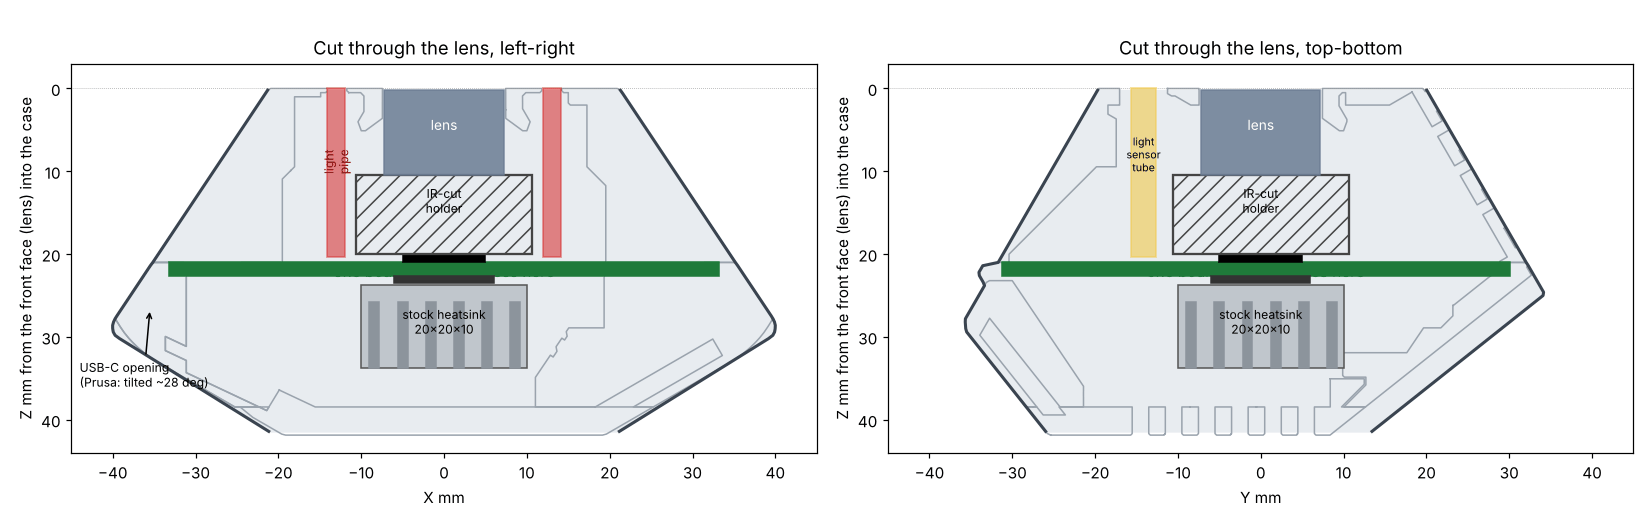
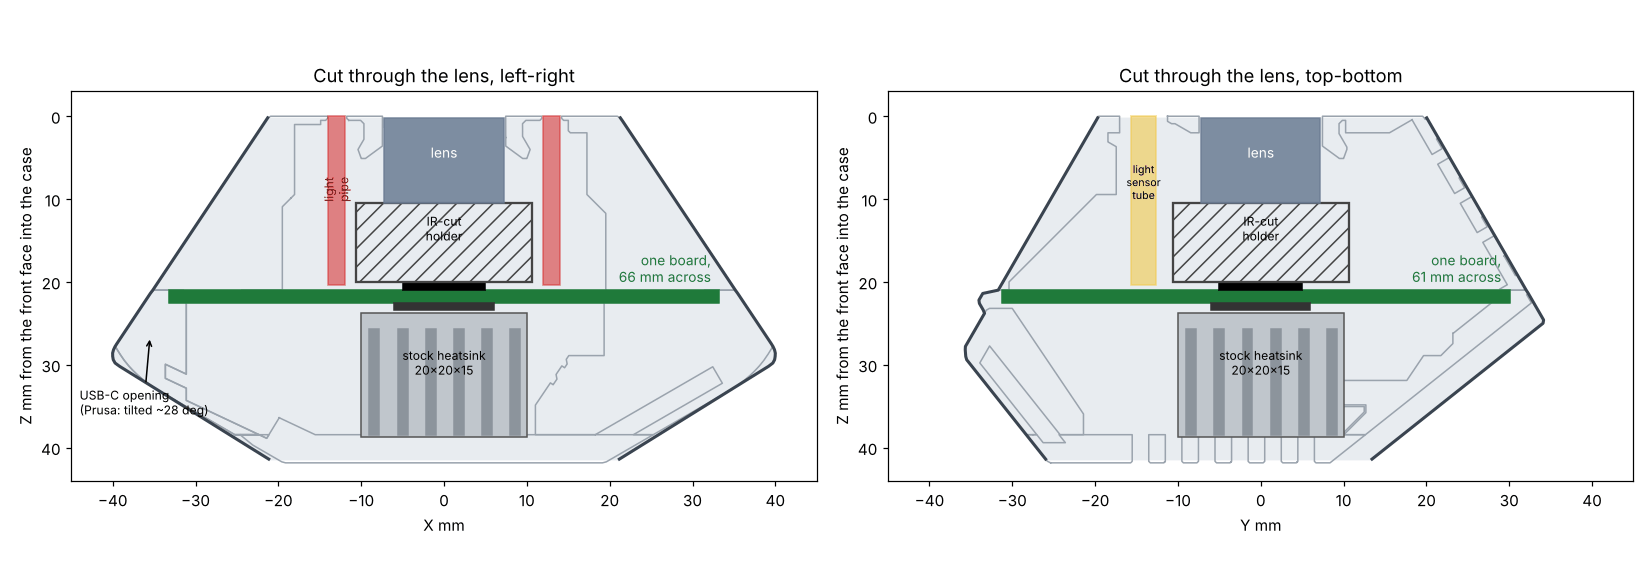
LayerCam Pro v1: review fixes to the plan
- The IR-cut holder's base covers four of the six LEDs under Prusa's
  holes (0.42 mm at any rotation): now an open risk with the ways out.
- The heatsink reaches the vents: 20 x 20 x 15 mm under a 1.6 mm lid,
  1.55 mm clear (a 10 mm one left 5 mm of trapped air).
- src/plan_section.py draws the section from Prusa's case files and
  checks both fits in numbers.
- The parts check's link to LayerCam v1's parts list resolves.
- The antenna lead is named as the one cable inside the case.

Claude-Session: https://claude.ai/code/session_01SRhEBojLChjJZAxgunyC3D

diff --git a/layercam-pro/v1/src/plan_section.py b/layercam-pro/v1/src/plan_section.py
@@ -1,0 +1,180 @@
+# -*- coding: utf-8 -*-
+"""LayerCam Pro v1: the plan drawn in Prusa's case, and its two fit checks.
+
+Draws images/plan-section.png (two cuts through the lens) from Prusa's
+printed case for the Buddy3D camera, and checks in numbers what the drawing
+shows:
+
+  1. the six IR LEDs (straight light pipes, so each LED right under its
+     front hole) against the IR-cut holder's base on the same face;
+  2. the heatsink's top against the new lid's inner face under the vents.
+
+The case files are Prusa's (Printables model 1343977, GPL v2):
+buddy-camera-bottom-r2.stl, buddy-camera-top-r1.stl, buddy-camera-lid-r1.stl.
+They are downloaded, not committed. Put them in one folder and run:
+
+    python3 src/plan_section.py <folder with the three STLs>
+
+Needs numpy, trimesh, shapely, matplotlib, Pillow (a venv in out/ is fine).
+Exits 1 if a check fails; the plan's README lists both as open risks until
+the board's own design checks replace this script.
+
+The frame is LayerCam's "lens frame" (../../../layercam/v1/src/geometry.py):
+origin on the lens axis at the case's outer front face, +Z into the case.
+"""
+import math
+import os
+import sys
+
+import numpy as np
+import trimesh
+from shapely.ops import unary_union
+
+# ------------------------------------------------------------ the plan's numbers
+BOARD_Z0, BOARD_T = 21.0, 1.6          # board front face, thickness (docs/decisions.md)
+WALL = 2.5                             # new case wall at the board
+LED_R, LED_ANGLES = 13.0, (0, 60, 120, 180, 240, 300)   # Prusa's holes (LayerCam geometry.py)
+LED_SIZE = 3.75                        # OSRAM SFH 4715CS body, square
+PIPE_D = 2.01                          # Bivar LPV2-0750
+HOLDER_BOX = (-10.6, -9.8, 10.6, 9.8)  # Commonlands CLA219 base with its ears (full rectangle)
+CHIP_H, TAPE_H = 0.85, 0.25            # RV1106 package, 3M 8810 tape
+SINK = (20.0, 20.0, 15.0)              # stock heatsink, mm
+LID_T = 1.6                            # new lid's thickness under the vents
+MIN_GAP = 0.5                          # clearance each check asks for
+
+
+def load_case(folder):
+    """Prusa's three parts, assembled in the lens frame (measured 26 Oct 2026)."""
+    def part(name):
+        return trimesh.load(os.path.join(folder, 'buddy-camera-%s.stl' % name))
+    bottom, top, lid = part('bottom-r2'), part('top-r1'), part('lid-r1')
+    flip = np.eye(4)
+    flip[:3, :3] = np.diag([1, -1, -1])
+    flip[:3, 3] = [-4.21, 3.39, 45.68]
+    top.apply_transform(flip)
+    lid.apply_transform(flip)
+    shift = np.eye(4)
+    shift[:3, 3] = [-1.28, -0.74, -2.0]
+    for m in (bottom, top, lid):
+        m.apply_transform(shift)
+    return trimesh.util.concatenate([bottom, top, lid]), lid
+
+
+def hull_at(case, z):
+    s = case.section(plane_origin=[0, 0, z], plane_normal=[0, 0, 1])
+    return unary_union(s.to_2D(to_2D=np.eye(4))[0].polygons_full).convex_hull
+
+
+def led_gaps():
+    """Clearance from each LED body to the holder's base (negative = overlap)."""
+    x0, y0, x1, y1 = HOLDER_BOX
+    out = []
+    for a in LED_ANGLES:
+        x, y = LED_R * math.cos(math.radians(a)), LED_R * math.sin(math.radians(a))
+        h = LED_SIZE / 2
+        # boxes apart along either axis -> the larger separation; else overlap depth
+        gx = max(x0 - (x + h), (x - h) - x1)
+        gy = max(y0 - (y + h), (y - h) - y1)
+        out.append((a, x, y, max(gx, gy)))
+    return out
+
+
+def lid_inner_z(lid):
+    """Prusa's lid: top face and inner face over the heatsink (lens axis)."""
+    loc, _, _ = lid.ray.intersects_location([[0, 0, 24.0]], [[0, 0, 1.0]], multiple_hits=True)
+    zs = sorted(loc[:, 2])
+    return zs[0], zs[-1]
+
+
+def draw(case, path):
+    import matplotlib
+    matplotlib.use('Agg')
+    import matplotlib.pyplot as plt
+    from matplotlib.patches import Rectangle
+    from PIL import Image
+
+    bz1 = BOARD_Z0 + BOARD_T
+    sink_z0 = bz1 + CHIP_H + TAPE_H
+    fig, axes = plt.subplots(1, 2, figsize=(15, 5.2))
+    for k, (normal, axis, label) in enumerate((([0, 1, 0], 0, 'X'), ([1, 0, 0], 1, 'Y'))):
+        ax = axes[k]
+        for e in case.section(plane_origin=[0, 0, 0], plane_normal=normal).discrete:
+            ax.plot(e[:, axis], e[:, 2], color='#9aa3ad', lw=1)
+        zs = np.arange(0.2, 41.6, 0.4)
+        lo, hi = [], []
+        for z in zs:
+            b = hull_at(case, z).bounds
+            lo.append(b[axis])
+            hi.append(b[axis + 2])
+        ax.fill_betweenx(zs, lo, hi, color='#e8ecf0', zorder=0)
+        ax.plot(lo, zs, color='#3a4450', lw=2)
+        ax.plot(hi, zs, color='#3a4450', lw=2)
+        b = hull_at(case, BOARD_Z0 + 0.8).bounds
+        w0, w1 = b[axis] + WALL, b[axis + 2] - WALL
+        ax.add_patch(Rectangle((w0, BOARD_Z0), w1 - w0, BOARD_T, color='#1f7a3a', zorder=5))
+        ax.text(w1 - 1, BOARD_Z0 - 0.6, 'one board,\n%.0f mm across' % (w1 - w0),
+                ha='right', va='bottom', color='#1f7a3a', fontsize=9, zorder=6)
+        ax.add_patch(Rectangle((-5, BOARD_Z0 - 1.0), 10, 1.0, color='k', zorder=6))       # sensor
+        hz0 = BOARD_Z0 - 1.0 - 9.5
+        ax.add_patch(Rectangle((HOLDER_BOX[0], hz0), HOLDER_BOX[2] - HOLDER_BOX[0], 9.5,
+                               fill=False, ec='#444', lw=1.5, zorder=6, hatch='//'))
+        ax.add_patch(Rectangle((-7.2, 0.2), 14.4, hz0 - 0.2, color='#6b7c93', alpha=.85, zorder=6))
+        ax.text(0, 5, 'lens', ha='center', color='w', fontsize=9, zorder=7)
+        ax.text(0, 15, 'IR-cut\nholder', ha='center', fontsize=8, zorder=7)
+        if k == 0:
+            for x in (-LED_R, LED_R):
+                ax.add_patch(Rectangle((x - PIPE_D / 2, 0.0), PIPE_D, BOARD_Z0 - 0.6,
+                                       color='#d62728', alpha=.55, zorder=6))
+            ax.text(-LED_R, 10, 'light\npipe', ha='center', fontsize=8, color='#8b0000', zorder=7, rotation=90)
+        else:
+            ax.add_patch(Rectangle((-14.15 - 1.5, 0.0), 3.0, BOARD_Z0 - 0.6, color='#f2c94c', alpha=.6, zorder=6))
+            ax.text(-14.15, 10, 'light\nsensor\ntube', ha='center', fontsize=7, zorder=7)
+        ax.add_patch(Rectangle((-6, bz1), 12, CHIP_H, color='#333', zorder=6))
+        ax.add_patch(Rectangle((-SINK[0] / 2, sink_z0), SINK[0], SINK[2], color='#c0c6cc', ec='#555', zorder=6))
+        for i in range(6):
+            ax.add_patch(Rectangle((-SINK[0] / 2 + 1 + i * 3.4, sink_z0 + 2), 1.2, SINK[2] - 2.2,
+                                   color='#8c949c', zorder=7))
+        ax.text(0, sink_z0 + SINK[2] / 2, 'stock heatsink\n%gx%gx%g' % SINK, ha='center', fontsize=8, zorder=8)
+        ax.set_aspect('equal')
+        ax.set_xlim(-45, 45)
+        ax.set_ylim(44, -3)
+        ax.set_xlabel(label + ' mm')
+        ax.set_ylabel('Z mm from the front face into the case')
+        ax.set_title('Cut through the lens, ' + ('left-right' if k == 0 else 'top-bottom'))
+    axes[0].annotate('USB-C opening\n(Prusa: tilted ~28 deg)', xy=(-35.5, 26.6), xytext=(-44, 36),
+                     fontsize=8, arrowprops=dict(arrowstyle='->'))
+    plt.tight_layout()
+    tmp = path + '.tmp.png'
+    plt.savefig(tmp, dpi=110)
+    Image.open(tmp).convert('RGB').quantize(256).save(path, optimize=True)
+    os.remove(tmp)
+
+
+def main():
+    if len(sys.argv) != 2:
+        sys.exit(__doc__)
+    case, lid = load_case(sys.argv[1])
+    ok = True
+
+    print('1. IR LEDs (%.2f mm square) against the IR-cut holder base:' % LED_SIZE)
+    for a, x, y, gap in led_gaps():
+        bad = gap < MIN_GAP
+        ok &= not bad
+        print('   %3d deg (%6.2f, %6.2f): gap %+.2f mm%s' % (a, x, y, gap, '  FAIL' if bad else ''))
+
+    inner, top = lid_inner_z(lid)
+    new_inner = top - LID_T
+    sink_top = BOARD_Z0 + BOARD_T + CHIP_H + TAPE_H + SINK[2]
+    gap = new_inner - sink_top
+    ok &= gap >= MIN_GAP
+    print('2. Heatsink top Z %.2f; Prusa lid inner %.2f, top %.2f; new %.1f mm lid inner %.2f: gap %+.2f mm%s'
+          % (sink_top, inner, top, LID_T, new_inner, gap, '' if gap >= MIN_GAP else '  FAIL'))
+
+    here = os.path.dirname(os.path.abspath(__file__))
+    draw(case, os.path.join(here, '..', 'images', 'plan-section.png'))
+    print('drew images/plan-section.png')
+    sys.exit(0 if ok else 1)
+
+
+if __name__ == '__main__':
+    main()

diff --git a/layercam-pro/v1/README.md b/layercam-pro/v1/README.md
@@ -17,14 +17,15 @@ stock, temperature) are in
 *Prusa's case outside, cut through the lens. One board (green) sits where
 the case is widest, about 66 mm across. The image sensor and the lens
 holder are on its front face. Light pipes carry the infrared light to
-Prusa's six front holes. A stock heatsink sits on the main chip, under the
-back vents; the new inside opens the vents onto its fins.*
+Prusa's six front holes. A stock 20 x 20 x 15 mm heatsink sits on the main
+chip and ends 1.5 mm under the back vents. Drawn, with the two fit checks,
+by `src/plan_section.py` from Prusa's case files.*
 
 ## What it has to do
 
 | Requirement | How it will be checked |
 |---|---|
-| **One circuit board.** Image sensor, infrared lights, light sensor, main chip, Wi-Fi, USB-C and every other part on it. No flat cables or wire cables inside the case | the BOM and the assembly drawing: one board, no cable |
+| **One circuit board.** Image sensor, infrared lights, light sensor, main chip, Wi-Fi, USB-C and every other part on it. No flat cables or board-to-board cables inside the case; the one lead is the antenna's, from the Wi-Fi module to the case wall | the BOM and the assembly drawing: one board, no board-to-board cable |
 | **One order at PCBWay:** one Gerber zip, one BOM and one placement file; PCBWay buys and fits every part | PCBWay's quote. The one known exception is the bare image sensor (see *Risks*) |
 | **Prusa's outside, our inside.** Same outer shape and magnets, so it fits the same top-left front corner of the CORE One. The USB-C socket stays on the same side wall, but the plug goes in level, not tilted about 28° as on Prusa's case | the case is built from Prusa's published files (Printables 1343977, GPL v2); a check script measures the board against the new case |
 | **A 70 °C chamber.** Every part inside its rating with the chamber at 70 °C, in snapshot and timelapse mode, cooled by a stock heatsink only (no fan) | a thermal model of the routed board at 70 °C (`sim/thermal.py`), then an oven test of a built camera |
@@ -46,10 +47,10 @@ back vents; the new inside opens the vents onto its fins.*
 | **Lens and day/night filter** | An M12 lens in an M12 holder with a built-in day/night (IR-cut) filter, screwed to the board over the sensor. The lens front sits just behind the case's front face |
 | **Wi-Fi** | Espressif **ESP32-C6-MINI-1U-H4**: Wi-Fi 6 at 2.4 GHz, **rated to 105 °C**, US approved (FCC), about $4.40. It talks to the main chip over SDIO with Espressif's Linux driver (`esp-hosted`). The main chip programs it, so there is no second programming step at the factory |
 | **Antenna** | A short U.FL to RP-SMA cable (bought in bulk) from the Wi-Fi module to a socket in the case wall. A 2.4 GHz screw-on antenna outside, no stronger than the gain the Wi-Fi module is approved with |
-| **Infrared lights** | Six 860 nm LEDs (OSRAM SFH 4715CS, rated to 125 °C) on the board's front face, with a light pipe on each. The pipes carry the light about 19 mm to Prusa's six front holes and keep its wide beam (Bivar LPV2-0750, PCB-mounted, fitted by PCBWay) |
+| **Infrared lights** | Six 860 nm LEDs (OSRAM SFH 4715CS, rated to 125 °C) on the board's front face, with a light pipe on each. The pipes carry the light about 19 mm to Prusa's six front holes and keep its wide beam (Bivar LPV2-0750, PCB-mounted, fitted by PCBWay). **Open:** four of the six LEDs clash with the IR-cut holder (see *Risks*) |
 | **Light sensor** | Behind Prusa's light window, looking through a printed tube |
 | **USB-C** | Power only (and firmware flashing), on the board's edge, out of the case's side wall, plug level with the board |
-| **Cooling** | A stock aluminium heatsink (about 20 x 20 x 10 mm, on 3M 8810 tape) on the main chip, reaching the back vents so it sits in the chamber's air, not air trapped in the case. Parts are spread over a board nearly twice the size of LayerCam's main board. The camera sleeps between pictures and drops to snapshots when hot, as LayerCam does |
+| **Cooling** | A stock aluminium heatsink, **20 x 20 x 15 mm** on 3M 8810 tape, on the main chip. Its top ends 1.5 mm under the back vents because the new lid is 1.6 mm thick there (Prusa's is 3.4 mm; a 10 mm heatsink would leave 5 mm of trapped air). So it sits in the chamber's air, not air trapped in the case. The size is sold (seen at Newegg); an Amazon listing is to be confirmed. Parts are spread over a board nearly twice the size of LayerCam's main board. The camera sleeps between pictures and drops to snapshots when hot, as LayerCam does |
 | **Case** | Printed by OffGrid in PC carbon fibre (Prusa's own recommendation for this case). Prusa's outside; a new inside: the board seat, the light-pipe guides, the light-sensor tube, the antenna socket, a level USB-C opening, vents over the heatsink. Built from Prusa's published files, which are GPL v2, so our case files are published under GPL v2 too |
 | **Magnets** | Round disc magnets from Amazon, high-temperature grade (SH, 150 °C), in printed pockets on the outside, set with heat-proof epoxy (J-B Weld) |
 | **Fab** | PCBWay: one board, one Gerber zip, BOM and placement file |
@@ -63,6 +64,7 @@ back vents; the new inside opens the vents onto its fins.*
 | **SC4336H software:** the SDK has the SC4336 driver and tuning, not the SC4336H | Compare the two datasheets; port the driver (usually a chip ID and register table). Early test on a cheap SC4336H camera board if one is sold |
 | **The image sensor is rated to 85 °C and gives its best picture up to 60 °C** | Put the sensor at the board's cool end, away from the main chip, behind a slot in the copper; the thermal model has to show it under 85 °C at a 70 °C chamber |
 | **Parts that stop at 85 °C:** the USB-C socket (no 105 °C USB 2.0 socket exists), the memory chip, the sensor | Place them at the cool edge; the thermal model checks each against its rating |
+| **Four LEDs clash with the IR-cut holder.** Straight pipes put each LED right under its hole, at R 13.0 every 60°. The CLA219's base (21.2 x 19.6 mm, a full rectangle with its screw ears) covers the 60°, 120°, 240° and 300° LEDs by 0.42 mm at any rotation. Only the 2 mm pipe itself clears (0.45 mm). LayerCam v1 never met this: its LEDs are on a ring near the front | Settle before layout, in this order: (1) an IR-cut holder whose base clears the four LEDs by 0.5 mm with their adapters (drawings of compact holders); (2) LEDs moved out to R 14.1 or more, with pipes tilted about 3° by printed guides, or flexible light guides rated for the heat; (3) moving Prusa's holes, which changes the outside and was rejected |
 | **The day/night filter holder has no published temperature rating** (the ones found are rated to 70 °C) | Ask Commonlands for the CLA219's rating; test in the oven |
 | **Light pipe temperature rating:** Bivar gives -40 to 125 °C for its polycarbonate pipes in general, not for this part | Confirm with Bivar; oven test |
 | **Carbon-fibre plastic conducts a little** | No bare copper at the board edge or near the case; the board is coated; the case touches only the grounded mounting holes |
@@ -75,7 +77,7 @@ back vents; the new inside opens the vents onto its fins.*
    board (both on Amazon).
 2. **Ask PCBWay** whether they can source the SC4336H, and get a rough
    quote for a 6-layer board of this size with assembly.
-3. **Ask Commonlands and Bivar** for the temperature ratings of the IR-cut
+3. **Settle the LED and IR-cut holder clash** (*Risks*), then **ask Commonlands and Bivar** for the temperature ratings of the IR-cut
    holder and the light pipes.
 4. **Design the board**, following [`docs/new-board.md`](../../docs/new-board.md):
    circuit in code, placement, routing, design checks, thermal model at 70 °C.
@@ -89,6 +91,7 @@ back vents; the new inside opens the vents onto its fins.*
 | [`docs/decisions.md`](docs/decisions.md) | every decision so far, and what it costs |
 | [`docs/parts-check-2026-10-31.md`](docs/parts-check-2026-10-31.md) | the main parts: in production, stock, price, temperature, with sources |
 | `images/plan-section.png` | the plan drawn in Prusa's case |
+| [`src/plan_section.py`](src/plan_section.py) | draws it from Prusa's case files (downloaded, not committed) and checks the LEDs against the IR-cut holder and the heatsink against the lid. It fails today on the LED clash, an open risk |
 
 The rest of the folder (`src/`, `production/`, `sim/`, `firmware/`,
 `enclosure/`, `TESTS.md`) comes with the design.

diff --git a/layercam-pro/v1/docs/decisions.md b/layercam-pro/v1/docs/decisions.md
@@ -105,7 +105,11 @@ streaming at a 50-60 °C chamber. The Pro is designed for 70 °C, past both.
 
 LayerCam's model showed that a heatsink inside a closed case only heats
 the air trapped in it. So the Pro's heatsink reaches the back vents and
-sits in the chamber's own air. The camera works in snapshots and the
+sits in the chamber's own air. Prusa's lid is 3.4 mm thick under its vents
+(inner face Z 38.45); a 20 x 20 x 10 mm heatsink on the chip would stop at
+Z 33.7, 5 mm short. The new lid is 1.6 mm thick there (inner face Z 40.25)
+and the heatsink is 20 x 20 x 15 mm, whose top is at Z 38.7: 1.55 mm under
+the vents (`src/plan_section.py` checks it). The camera works in snapshots and the
 timelapse at any chamber temperature up to 70 °C; live video only while
 it is cool.
 
@@ -122,6 +126,16 @@ PCB parts that PCBWay fits.
 
 Rejected: bigger front holes or one infrared window (changes the outside,
 and a window is a part to buy).
+
+**Not settled: four LEDs clash with the IR-cut holder.** A straight pipe
+puts its LED right under its hole, at R 13.0 every 60°. The CLA219's base
+is a full 21.2 x 19.6 mm rectangle (its drawing: the screw ears sit in the
+middle of two sides, the corners are solid). It covers the LEDs at 60°,
+120°, 240° and 300° by 0.42 mm at any rotation; only the bare 2 mm pipe
+clears it (0.45 mm). The way out is chosen before layout: a holder with a
+smaller base, LEDs moved out to R 14.1 or more with the pipes tilted about
+3° by printed guides (or flexible light guides rated for the heat), or, last,
+moving Prusa's holes.
 
 The OSRAM SFH 4715AS is not for new designs; its maker-recommended
 replacement, the SFH 4715CS (rated to 125 °C), is used.

diff --git a/layercam-pro/v1/docs/parts-check-2026-10-31.md b/layercam-pro/v1/docs/parts-check-2026-10-31.md
@@ -21,12 +21,12 @@ reached. Prices are for 1 / 100 pieces where both were shown.
 | Sensor 2.8 V supply | TI TLV75528PDRVR | **Yes** (DK) | DK 8,526 | $0.39 / $0.21 | -40..125 °C | Low-noise LDO |
 | USB-C | GCT USB4105-GF-A | **Yes** (DK) | DK 84,457 | $0.80 / $0.57 | -40..85 °C | No 16-contact USB 2.0 socket rated 105 °C exists; it goes at the board's cool edge |
 | Memory (256 MB) | Winbond W25N02KVZEIR | **Yes** (DK) | DK 7,945 (reel) | about $11.65 (LCSC) | -40..85 °C | Cool edge |
-| Bucks, inductors, crystals, ESD, IR-cut driver, light sensor, MOSFET, beads | as on LayerCam v1 (`../../layercam/v1/docs/parts.md`) | **Yes** (DK) for every part Digi-Key carries | | | 105-125 °C for most | |
+| Bucks, inductors, crystals, ESD, IR-cut driver, light sensor, MOSFET, beads | as on LayerCam v1 ([`layercam/v1/docs/parts.md`](../../../layercam/v1/docs/parts.md)) | **Yes** (DK) for every part Digi-Key carries | | | 105-125 °C for most | |
 
 ## Parts LayerCam v1 needed that the Pro drops
 
 The ESP32-C6 module carries its own crystal and sleep clock, and the
-Pro has no cables, so these go: the AP6256 Wi-Fi module, its 37.4 MHz
+Pro has no board-to-board cables, so these go: the AP6256 Wi-Fi module, its 37.4 MHz
 crystal, the 32 kHz TCXO, the camera flat-cable socket and the two JST SH
 cable sockets.
 

diff --git a/layercam-pro/README.md b/layercam-pro/README.md
@@ -4,7 +4,8 @@ A camera for the inside of a Prusa CORE One, on **one** circuit board. It
 does everything [LayerCam](../layercam/) does (Prusa Connect snapshots,
 infrared night vision, a per-layer timelapse uploaded to a NAS or S3), but
 the image sensor, the infrared lights, the Wi-Fi and the USB-C are all on
-the same board. There are no flat cables or connector cables inside, and
+the same board. There are no flat cables or board-to-board cables inside (only the
+antenna's short lead to the case wall), and
 PCBWay makes and assembles it from one set of files.
 
 It keeps the outside of Prusa's Buddy3D camera case, so it fits the same
